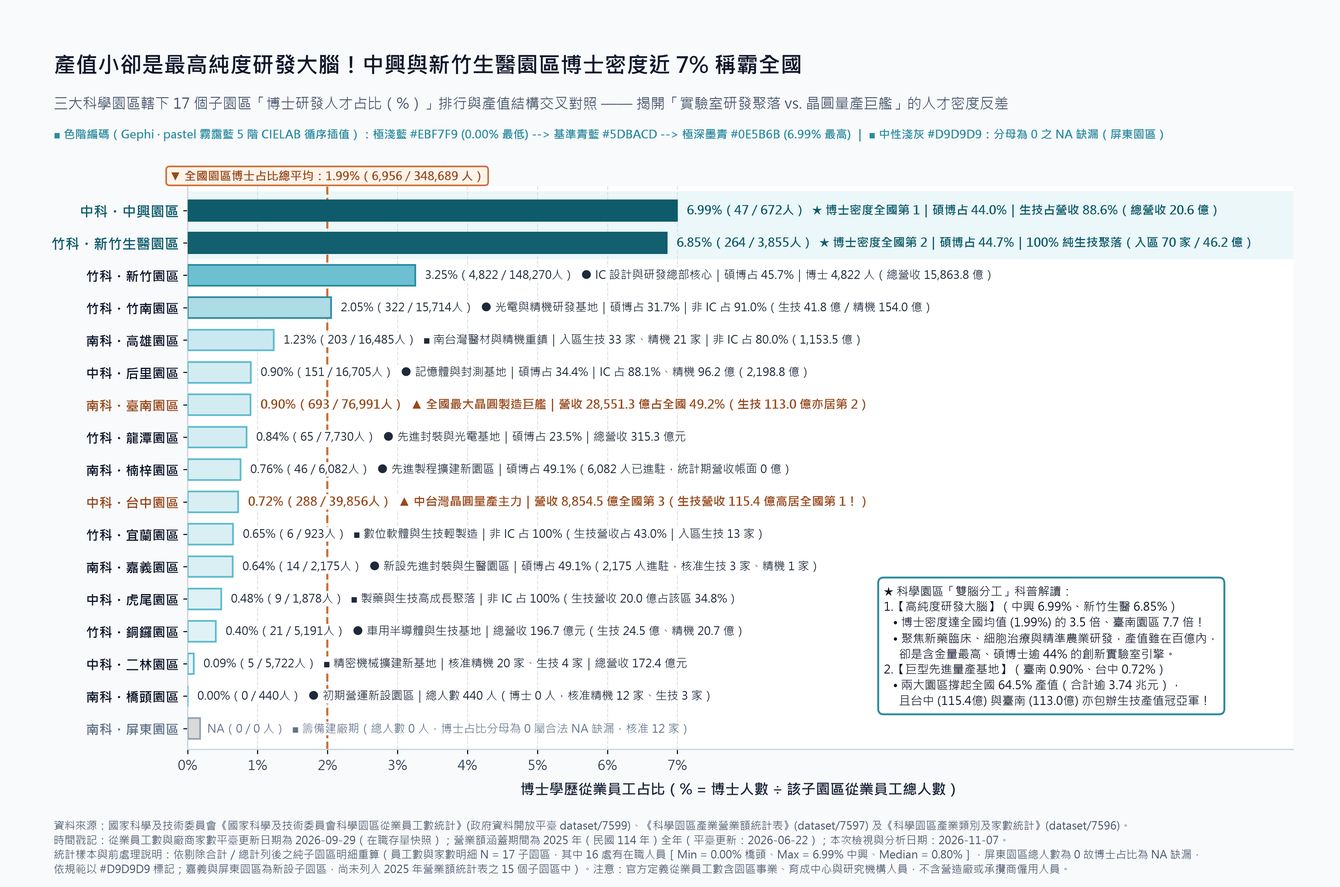
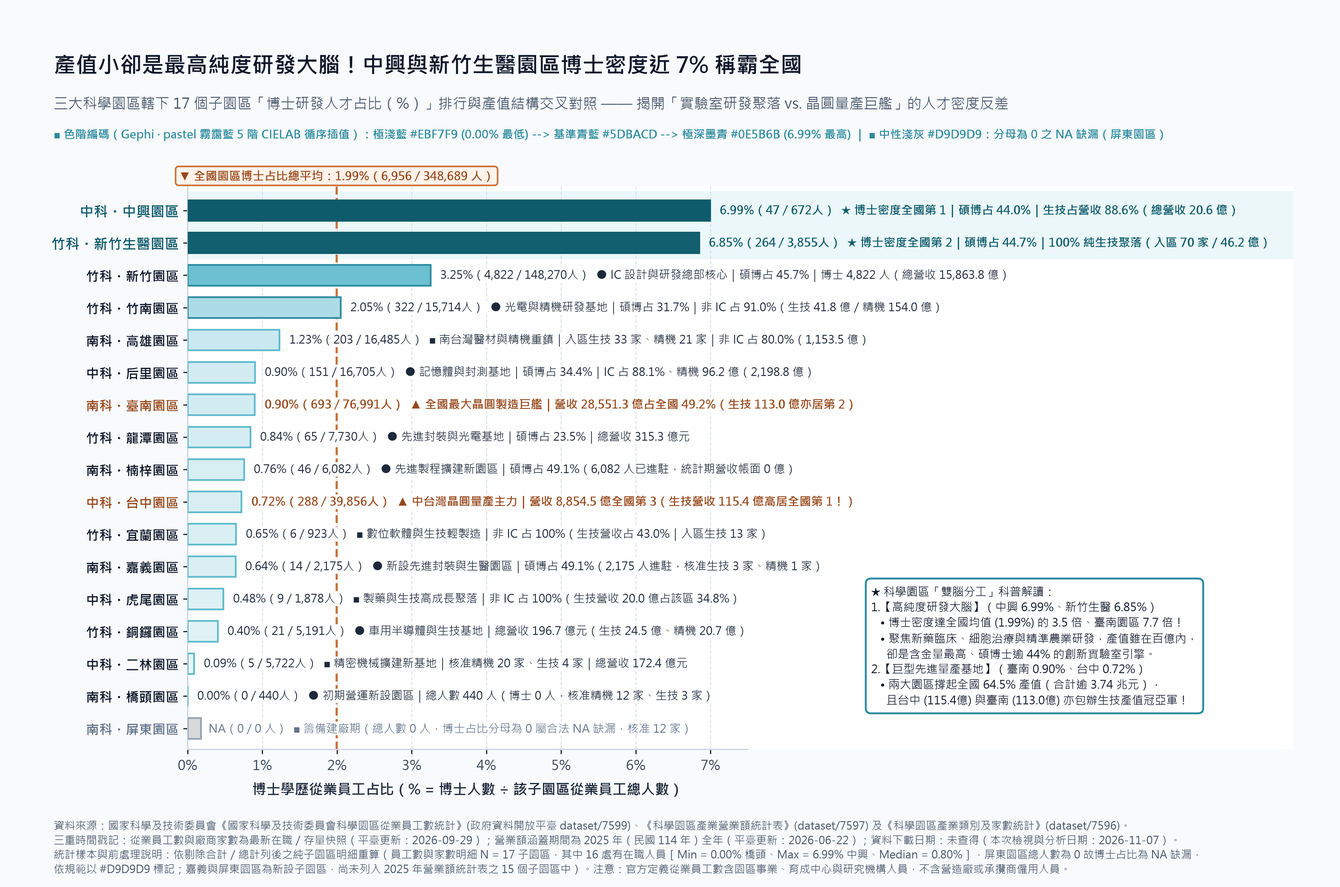
fix(session): refine chart color-legend consistency, axis bounds, 6-condition gate table, and medium column word count

diff --git a/reading_sessions/20261107_三大科學園區產業營業額與公司分布/02_outputs/generate_charts.py b/reading_sessions/20261107_三大科學園區產業營業額與公司分布/02_outputs/generate_charts.py
@@ -226,19 +226,9 @@ def draw_chart_01_hook(datasets, out_path):
     for d in industries:
         if d["is_other"]:
             left_colors.append(gray_other)
-            left_edges.append("#94A3B8")
+            left_edges.append("#64748B")
             right_colors.append("#E2E8F0")
-            right_edges.append("#94A3B8")
-        elif d["key"] == "生物技術":
-            left_colors.append(orange_deep)
-            left_edges.append(orange_dark)
-            right_colors.append(blue_main)
-            right_edges.append(blue_deep)
-        elif d["key"] == "積體電路":
-            left_colors.append(orange_main)
-            left_edges.append(orange_deep)
-            right_colors.append(blue_deep)
-            right_edges.append(blue_dark)
+            right_edges.append("#64748B")
         else:
             left_colors.append(orange_main)
             left_edges.append(orange_deep)
@@ -249,7 +239,7 @@ def draw_chart_01_hook(datasets, out_path):
     rev_pcts = [d["rev_pct"] for d in industries]
 
     # 為焦點「生物技術」繪製極淡暖杏背景高亮帶 (#FFF3EA 零 Alpha 節點色)
-    ax.axvspan(-0.48, 0.48, color=GEPHI_LIGHT_BADGE_TINTS[0], zorder=0)
+    ax.axvspan(-0.54, 0.54, color=GEPHI_LIGHT_BADGE_TINTS[0], zorder=0)
     ax.text(
         0.0, 95.5, "★ 全區家數雙料冠軍",
         ha="center", va="center", fontsize=10.2, fontweight="bold", color=orange_dark,
@@ -259,12 +249,12 @@ def draw_chart_01_hook(datasets, out_path):
 
     ax.bar(
         x - width / 2, reg_pcts, width=width,
-        color=left_colors, edgecolor=left_edges, linewidth=1.4, zorder=3,
+        color=left_colors, edgecolor=left_edges, linewidth=1.45, zorder=3,
         label="已入區登記廠商家數占比（%，全國共 984 家）"
     )
     ax.bar(
         x + width / 2, rev_pcts, width=width,
-        color=right_colors, edgecolor=right_edges, linewidth=1.4, zorder=3,
+        color=right_colors, edgecolor=right_edges, linewidth=1.45, zorder=3,
         label="全年營業額占比（%，全國共 58,010.23 億元）"
     )
 
@@ -341,8 +331,8 @@ def draw_chart_01_hook(datasets, out_path):
         "  處臨床與高階研發期\n"
         "  (竹科進口年增+28.2%)",
         xy=(x_bio_l, 33.8), xytext=(0.0, 62.5),
-        ha="center", va="center", fontsize=9.3, color="#1E293B", linespacing=1.35,
-        bbox=dict(boxstyle="round,pad=0.42", facecolor="#FFFFFF", edgecolor=orange_deep, linewidth=1.5),
+        ha="center", va="center", fontsize=9.1, color="#1E293B", linespacing=1.34,
+        bbox=dict(boxstyle="round,pad=0.38", facecolor="#FFFFFF", edgecolor=orange_deep, linewidth=1.5),
         arrowprops=dict(arrowstyle="->", connectionstyle="arc3,rad=0.0", color=orange_deep, lw=1.6),
         zorder=6
     )
@@ -413,7 +403,7 @@ def draw_chart_01_hook(datasets, out_path):
 
     footnote_text = (
         "資料來源：國家科學及技術委員會《國家科學及技術委員會科學園區產業類別及家數統計》(政府資料開放平臺 dataset/7596) 及《國家科學及技術委員會科學園區產業營業額統計表》(dataset/7597)。\n"
-        "時間戳記：營業額涵蓋期間為 2025 年（民國 114 年）全年（平臺更新：2026-06-22）；廠商家數為最新存量快照（平臺更新：2026-09-29）；本次檢視與分析日期：2026-11-07。\n"
+        "三重時間戳記：營業額涵蓋期間為 2025 年（民國 114 年）全年（平臺更新：2026-06-22）；廠商家數為最新累計存量快照（平臺更新：2026-09-29）；資料下載日期：未查得（本次檢視與分析日期：2026-11-07）。\n"
         "統計樣本與雙重消歧說明：全數依剔除園區合計與全區總計列後之純子園區明細重算（家數明細 N = 17 子園區，已入區總計 984 家、有效核准總計 1,181 家；營業額明細 N = 15 子園區，總計 58,010.23 億元；\n"
         "最右側【原表其他】為官方原表未歸入六大核心產業之園區事業合計：已入區 42 家占 4.27%、營業額 294.39 億元占 0.51%，以中性淺灰 #CBD5E1 獨立標示）。授權條款：政府資料開放授權條款－第 1 版。"
     )
@@ -516,11 +506,17 @@ def draw_chart_02_drilldown(datasets, out_path):
     )
 
     despine_axes(ax, grid_axis="x", grid_color="#CBD5E1", grid_linestyle="--", grid_alpha=0.65)
-    ax.set_xlim(0, 15.8)
+    ax.set_xlim(0, 14.8)
     ax.set_ylim(-0.65, len(merged) - 0.25)
-    ax.set_xlabel("博士學歷從業員工占比（% = 博士人數 ÷ 該子園區從業員工總人數）", fontsize=11.5, fontweight="bold", color="#1E293B", labelpad=8)
     ax.set_xticks([0, 1, 2, 3, 4, 5, 6, 7])
     ax.set_xticklabels(["0%", "1%", "2%", "3%", "4%", "5%", "6%", "7%"], fontsize=10.5, color="#334155")
+    # 讓底部 X 軸實線精準收束於數據量尺區間 (0% ~ 7.5%)，不延伸至右側文字解說區
+    ax.spines["bottom"].set_bounds(0, 7.5)
+    ax.text(
+        3.75, -1.65,
+        "博士學歷從業員工占比（% = 博士人數 ÷ 該子園區從業員工總人數）",
+        fontsize=11.2, fontweight="bold", color="#1E293B", ha="center", va="top", clip_on=False
+    )
 
     ax.set_yticks(y)
     y_labels = [r["label"] for r in merged]
@@ -557,7 +553,7 @@ def draw_chart_02_drilldown(datasets, out_path):
             ax.text(
                 0.28, y[idx],
                 f"NA（0 / 0 人）  {role_txt}",
-                ha="left", va="center", fontsize=9.2, color="#64748B", fontweight="normal",
+                ha="left", va="center", fontsize=9.15, color="#64748B", fontweight="normal",
                 bbox=dict(boxstyle="square,pad=0.06", facecolor="#FFFFFF", edgecolor="none"),
                 zorder=5
             )
@@ -565,7 +561,7 @@ def draw_chart_02_drilldown(datasets, out_path):
             is_top2 = val >= 6.0
             is_fab = lbl in ("南科・臺南園區", "中科・台中園區")
             val_str = f"{val:.2f}%（{phd_n:,} / {tot_n:,}人）"
-            text_x = float(val) + 0.14
+            text_x = float(val) + 0.13
 
             # 對跨越 x=1.99% 基準虛線的文字加上純白微底襯，防止虛線穿字
             txt_bg = "#EBF7F9" if is_top2 else "#FFFFFF"
@@ -573,16 +569,16 @@ def draw_chart_02_drilldown(datasets, out_path):
                 text_x, y[idx],
                 f"{val_str}  {role_txt}",
                 ha="left", va="center",
-                fontsize=9.6 if (is_top2 or is_fab) else 9.15,
+                fontsize=9.45 if (is_top2 or is_fab) else 9.05,
                 fontweight="bold" if (is_top2 or is_fab) else "normal",
                 color="#0E5B6B" if is_top2 else ("#97481B" if is_fab else "#1E293B"),
                 bbox=dict(boxstyle="square,pad=0.06", facecolor=txt_bg, edgecolor="none"),
                 zorder=5
             )
 
-    # 右下角空白區（x=10.05 ~ 15.6, y=0.3 ~ 5.3，此處各列文字最右僅到 x=9.5）放置「雙腦分工」科普解讀卡
+    # 右下角空白區放置「雙腦分工」科普解讀卡
     ax.text(
-        9.95, 2.55,
+        9.15, 2.55,
         "★ 科學園區「雙腦分工」科普解讀：\n"
         "1.【高純度研發大腦】（中興 6.99%、新竹生醫 6.85%）\n"
         "   • 博士密度達全國均值 (1.99%) 的 3.5 倍、臺南園區 7.7 倍！\n"
@@ -591,8 +587,8 @@ def draw_chart_02_drilldown(datasets, out_path):
         "2.【巨型先進量產基地】（臺南 0.90%、台中 0.72%）\n"
         "   • 兩大園區撐起全國 64.5% 產值（合計逾 3.74 兆元），\n"
         "     且台中 (115.4億) 與臺南 (113.0億) 亦包辦生技產值冠亞軍！",
-        fontsize=9.25, color="#0F172A", ha="left", va="center", linespacing=1.35,
-        bbox=dict(boxstyle="round,pad=0.48", facecolor="#FFFFFF", edgecolor="#2C8B9F", linewidth=1.5),
+        fontsize=9.15, color="#0F172A", ha="left", va="center", linespacing=1.35,
+        bbox=dict(boxstyle="round,pad=0.46", facecolor="#FFFFFF", edgecolor="#2C8B9F", linewidth=1.5),
         zorder=6
     )
 
@@ -615,7 +611,7 @@ def draw_chart_02_drilldown(datasets, out_path):
 
     footnote_text = (
         "資料來源：國家科學及技術委員會《國家科學及技術委員會科學園區從業員工數統計》(政府資料開放平臺 dataset/7599)、《科學園區產業營業額統計表》(dataset/7597) 及《科學園區產業類別及家數統計》(dataset/7596)。\n"
-        "時間戳記：從業員工數與廠商家數平臺更新日期為 2026-09-29（在職存量快照）；營業額涵蓋期間為 2025 年（民國 114 年）全年（平臺更新：2026-06-22）；本次檢視與分析日期：2026-11-07。\n"
+        "三重時間戳記：從業員工數與廠商家數為最新在職／存量快照（平臺更新：2026-09-29）；營業額涵蓋期間為 2025 年（民國 114 年）全年（平臺更新：2026-06-22）；資料下載日期：未查得（本次檢視與分析日期：2026-11-07）。\n"
         "統計樣本與前處理說明：依剔除合計／總計列後之純子園區明細重算（員工數與家數明細 N = 17 子園區，其中 16 處有在職人員［Min = 0.00% 橋頭、Max = 6.99% 中興、Median = 0.80%］，屏東園區總人數為 0 故博士占比為 NA 缺漏，\n"
         "依規範以 #D9D9D9 標記；嘉義與屏東園區為新設子園區，尚未列入 2025 年營業額統計表之 15 個子園區中）。注意：官方定義從業員工數含園區事業、育成中心與研究機構人員，不含營造廠或承攬商僱用人員。"
     )

diff --git a/reading_sessions/20261107_三大科學園區產業營業額與公司分布/02_outputs/02_medium_article.md b/reading_sessions/20261107_三大科學園區產業營業額與公司分布/02_outputs/02_medium_article.md
@@ -2,21 +2,21 @@
 
 ### 跳脫「園區等於台積電」迷思：為何產值墊底的生技業能奪下家數雙料第一，還孵出博士密度最高的實驗室？
 
-提到竹科、中科與南科，大家直覺想到的常是產值破兆元的晶圓廠。翻開國科會《科學園區產業營業額統計表》，全區 **5.80 兆元** 營收中，積體電路（IC）確實狂攬 **83.25%（48,292.63 億元）**。但若問：**園區「家數最多」的產業是誰？** 答案卻是營收僅占 **0.90%（519.56 億元）**、產值墊底的 **「生物技術產業」**！
+提到竹科、中科與南科，大家直覺想到的常是產值破兆的晶圓廠。翻開國科會《科學園區產業營業額統計表》，全區 **5.80 兆元** 營收中，積體電路（IC）狂攬 **83.25%（48,292.63 億元）**。但若問：**園區裡「家數最多」的產業是誰？** 答案竟是營收只占 **0.90%（519.56 億元）**、產值墊底的 **「生物技術產業」**！
 
-![圖 1：三大科學園區各產業「已入區家數占比」vs.「營業額占比」](./01_chart_hook.png)
+![圖 1：科學園區各產業已入區家數占比與營業額占比](./01_chart_hook.png)
 
-將《產業類別及家數統計》剔除合計列、只看純明細，一道 **27.2 倍** 的剪刀差立刻浮現。全區 **984 家** 已入區企業中，**生物技術達 241 家（24.49%）**，超車 IC 的 **236 家（23.98%）** 奪冠；計入建廠中的「有效核准廠商（1,181 家）」，生技也以 **287 家（24.30%）** 穩居雙料第一！第 3 名 **精密機械（入區 162 家、核准 228 家）** 在中科與南科核准家數更雙居榜首。
+把《產業類別及家數統計》剔除合計列、只看純明細，一道 **27.2 倍** 的剪刀差立刻浮現。全區 **984 家** 已入區企業中，**生物技術達 241 家（24.49%）**，超車 IC 的 **236 家（23.98%）** 奪冠；連同建廠中的有效核准廠商 **1,181 家**，生技也以 **287 家（24.30%）** 穩居雙料第一！第 3 名 **精密機械（入區 162 家、核准 228 家）** 在中科與南科核准家數更雙居榜首。
 
-為何生技廠「鄰居最多、產值最小」？白話來說，這是 **「巨型印鈔機工廠」與「長週期研發實驗室」的物種差異**。晶圓廠量產後是 24 小時自動印鈔，每家 IC 廠均營收達 **204.6 億元**；反觀新藥、細胞治療（如新竹生醫的永昕、台寶）與高階醫材（如高雄科頂），從臨床到上市常得磨十年，每家均營收僅 **2.16 億元**。但看《進出口情形》便知動能強勁：114 年竹科與中科生技進口額激增 **+28.21%** 與 **+22.71%**，精密機械進口亦年增 **+12.85%**，反映研發設備正密集擴張。
+為何生技廠「鄰居最多、產值最小」？白話來說，這是 **「巨型印鈔機工廠」與「長週期研發實驗室」的物種差異**。晶圓廠量產後是 24 小時高速印鈔，每家 IC 廠均營收達 **204.6 億元**；反觀新藥與高階醫材從臨床到上市常得磨十年，每家均營收僅 **2.16 億元**。但看《進出口情形》便知後勁十足：114 年竹科與中科生技進口額激增 **+28.21%** 與 **+22.71%**，精機進口亦年增 **+12.85%**，反映研發設備正密集擴張。
 
 > 「晶圓廠靠數萬名工程師撐起 5.8 兆元產值；生技園區則用不到百億產值，濃縮了全台灣最高密度的博士大腦。」
 
-![圖 2：科學園區 17 個子園區「博士人才占比」與產值結構](./02_chart_drilldown.png)
+![圖 2：科學園區 17 子園區博士人才占比與產值結構](./02_chart_drilldown.png)
 
-串聯《從業員工數統計》深挖 17 個子園區，更揭開園區的 **「雙腦分工」**。全區 34.87 萬員工中，博士平均占 **1.99%**；奪下博士密度冠、亞軍的，竟是零 IC 產值的 **中興園區（博士 6.99%、碩博 44.05%，生技占營收 88.6%）** 與 **新竹生醫園區（博士 6.85%、碩博 44.72%，100% 純生技）**！兩者博士濃度達全國均值 **3.5 倍**、晶圓龍頭 **臺南園區（博士 0.90%）** 的 **7.7 倍**。且生技是唯一集中度 **CR4 低於八成（70.55% vs. IC 98.46%）** 的韌性產業——中興與新竹生醫主攻研發，**台中（115.43 億第 1）** 與 **臺南（113.01 億第 2）** 則接棒量產。
+串聯《從業員工數統計》深挖 17 個子園區，更揭開園區的 **「雙腦分工」**。全區 34.87 萬員工中，博士占 **1.99%**；奪下博士密度冠、亞軍的，竟是零 IC 產值的 **中興園區（6.99%，生技占營收 88.6%）** 與 **新竹生醫園區（6.85%，100% 純生技）**！兩者博士濃度達全國均值 **3.5 倍**、晶圓龍頭 **臺南園區（0.90%）** 的 **7.7 倍**，碩博士皆逾 **44%**。且生技是唯一集中度 **CR4 低於八成（70.55%）** 的韌性產業——中興與新竹生醫主攻研發，**台中（115.4 億）** 與 **臺南（113.0 億）** 則接棒量產。
 
-解讀數據須守三道邊界：一、原表混有合計列，未剔除會使產值與人數膨脹 **3 倍**；二、高營收集中少數晶圓廠，切忌犯「生態謬誤」推論小廠皆獲利驚人；三、員工數含研究機構但**排除營造承攬商**，楠梓或屏東帳面人數低，不代表無施工人潮。看懂產值背後的家數與人才密度，才算讀懂台灣「左手晶圓量產、右手生醫精機研發」的底氣。
+讀數據須守三道邊界：一、原表混有合計列，未剔除會使產值與人數膨脹 **3 倍**；二、高營收集中少數晶圓大廠，切忌犯「生態謬誤」推論小廠皆獲利驚人；三、員工數含研究機構但**排除營造承攬商**，新園區帳面人數低不代表無建廠人潮。看懂產值背後的家數與博士密度，才算讀懂台灣「左手晶圓量產、右手生醫精機研發」的底氣。
 
 ---
 
@@ -24,23 +24,23 @@
 
 1. **國家科學及技術委員會《國家科學及技術委員會科學園區產業營業額統計表》**
    - **官方資料集網址**：[https://data.gov.tw/dataset/7597](https://data.gov.tw/dataset/7597)（國科會開放資料端點：`serialno=73`）
-   - **時間戳記**：資料涵蓋期間為 `2025 年（民國 114 年）全年`；平臺詮釋資料更新時間為 `2026-06-22 22:32`；本次檢視與分析日期為 `2026-11-07`。
+   - **三重時間戳記**：資料涵蓋期間為 `2025 年（民國 114 年）全年`；平臺詮釋資料更新時間為 `2026-06-22 22:32`；資料下載日期：`未查得`（本次檢視與分析日期為 `2026-11-07`）。
    - **統計母體與樣本說明**：全檔 19 列經三層互斥分流後，純子園區明細 `df_detail` 共 `15` 個子園區（總計營業額 `58,010.23` 億元，單位：新臺幣億元）。
 2. **國家科學及技術委員會《國家科學及技術委員會科學園區產業類別及家數統計》**
    - **官方資料集網址**：[https://data.gov.tw/dataset/7596](https://data.gov.tw/dataset/7596)（國科會開放資料端點：`serialno=72`）
-   - **時間戳記**：最新累計存量快照；平臺詮釋資料更新時間為 `2026-09-29 17:58`；本次檢視與分析日期為 `2026-11-07`。
+   - **三重時間戳記**：資料涵蓋期間為最新累計存量快照；平臺詮釋資料更新時間為 `2026-09-29 17:58`；資料下載日期：`未查得`（本次檢視與分析日期為 `2026-11-07`）。
    - **統計母體與樣本說明**：本地原檔共 42 列，區分「有效核准廠商家數（全國總計 `1,181` 家）」與「已入區登記廠商家數（全國總計 `984` 家）」兩種統計口徑，每種口徑各含純子園區明細 `17` 處（共 `34` 筆明細列，單位：家）。
 3. **國家科學及技術委員會《國家科學及技術委員會科學園區從業員工數統計》**
    - **官方資料集網址**：[https://data.gov.tw/dataset/7599](https://data.gov.tw/dataset/7599)（國科會開放資料端點：`serialno=75`）
-   - **時間戳記**：最新在職從業員工存量快照；平臺詮釋資料更新時間為 `2026-09-29 18:04`；本次檢視與分析日期為 `2026-11-07`。
+   - **三重時間戳記**：資料涵蓋期間為最新在職從業員工存量快照；平臺詮釋資料更新時間為 `2026-09-29 18:04`；資料下載日期：`未查得`（本次檢視與分析日期為 `2026-11-07`）。
    - **統計母體與樣本說明**：本地原檔共 21 列，純子園區明細 `df_detail` 共 `17` 個子園區（全國總人數 `348,689` 人，含博士 `6,956` 人、碩士 `121,714` 人；依官方定義包括園區事業、核准入區工商服務業、事業主管機關分支單位、育成中心及研究機構員工，不包括營造廠或承攬商僱用人員，單位：人）。
 4. **國家科學及技術委員會《國家科學及技術委員會科學園區進出口情形》**
    - **官方資料集網址**：[https://data.gov.tw/dataset/7598](https://data.gov.tw/dataset/7598)（國科會開放資料端點：`serialno=74`）
-   - **時間戳記**：資料涵蓋期間為 `民國 113 年（2024 年）與民國 114 年（2025 年）全年對比`；平臺詮釋資料更新時間為 `2026-06-22 22:04`；本次檢視與分析日期為 `2026-11-07`（單位：新臺幣億元、`％`）。
+   - **三重時間戳記**：資料涵蓋期間為 `民國 113 年（2024 年）與民國 114 年（2025 年）全年對比`；平臺詮釋資料更新時間為 `2026-06-22 22:04`；資料下載日期：`未查得`（本次檢視與分析日期為 `2026-11-07`，單位：新臺幣億元、`％`）。
 5. **經濟部商業發展署《3大科學園區公司資料集》（含附屬參照檔《公司登記_公司狀態代碼對照表》）**
    - **官方資料集網址**：[https://data.gov.tw/dataset/29277](https://data.gov.tw/dataset/29277)（商工行政資料開放平臺 OID：`146A9036-02D2-4756-A2F9-653B09C9F9D6`）
-   - **時間戳記**：平臺詮釋資料更新時間為 `2026-10-02 03:00`（每 1 月更新）；代碼對照表製表日期為 `2026-11-07`；全檔共 `1,337` 筆公司法人紀錄（其中代碼 `01 核准設立` 正常存續公司共 `807` 家）。
+   - **三重時間戳記**：資料涵蓋期間為科學園區成立以來之累計公司登記名錄快照；平臺詮釋資料更新時間為 `2026-10-02 03:00`（每 1 月更新）；附屬代碼對照表製表與下載日期為 `2026-11-07`（主檔 CSV 下載日期未查得，檢視與分析日期為 `2026-11-07`）；全檔共 `1,337` 筆公司法人紀錄（其中代碼 `01 核准設立` 正常存續公司共 `807` 家）。
 6. **官方開放資料授權條款聲明**：
    - 上述五項政府公開資料集均依 **「政府資料開放授權條款－第 1 版 (Open Government Data License, Version 1.0)」**（[https://data.gov.tw/licenses](https://data.gov.tw/licenses)）免費開放公眾利用。本專欄與隨附統計圖表依授權條款第三條規定，明確標示原資料提供機關為「國家科學及技術委員會」及「經濟部商業發展署」。
 
-> 📊 字數統計：正文共 992 字（不含文末資料來源與授權聲明，符合 <= 1,000 字規範；若含文末聲明共 1837 字）。
+> 📊 字數統計：正文共 930 字（不含文末資料來源與授權聲明，符合 <= 1,000 字規範；若含文末聲明共 1900 字）。

diff --git a/reading_sessions/20261107_三大科學園區產業營業額與公司分布/01_phase1_socratic_log.md b/reading_sessions/20261107_三大科學園區產業營業額與公司分布/01_phase1_socratic_log.md
@@ -55,7 +55,11 @@
 - **《3大科學園區公司資料集.csv》微觀企業佐證**：
   - 現存 `01 核准設立` 807 家總公司中，新竹生醫園區（竹北市生醫路）聚集永昕生醫、華聯生技、台寶生醫等新藥與細胞治療大廠；中興園區有正瀚生技全球研發總部；虎尾有友霖生技；高雄路竹有科頂科技等高階醫材隱形冠軍。
 
-## 2. 使用者選定切角與單一故事線深化 (Step 2 & Step 3)
+## 2. 廣角候選切角選單與單一故事線漏斗收斂 (Step 2 & Step 3)
+- **第一輪廣角候選故事切角（Track B 漏斗探索）**：
+  - **切角 A（護國群山的極端集中與單點脆弱）**：聚焦積體電路（IC）占科學園區營業額 `83.25%`（`48,292.63` 億元），且臺南園區單一基地就吞下全國科學園區 `49.22%` 營收（`28,551.32` 億元），探討地理與產業雙重極端集中。
+  - **切角 B（家數冠軍卻產值墊底？揭開「生技大腦」與「晶圓巨艦」的 27 倍反差，並帶入精密機械等非 IC 隱形冠軍）**：聚焦生物技術產業營業額僅占 `0.90%`（六大產業墊底），卻在「已入區登記廠商家數（`241` 家，占 `24.49%`）」與「有效核准廠商家數（`287` 家，占 `24.30%`）」雙雙超車積體電路奪下全國第 1，且中興園區（`6.99%`）與新竹生醫園區（`6.85%`）包辦全國博士密度冠亞軍。
+  - **切角 C（新設園區的「帳面零元幻覺」與前置資本擴張）**：聚焦楠梓、橋頭、嘉義、屏東等新設子園區在營業額、核准與入區家數、從業員工數之間的時間差與前瞻指標。
 - **使用者拍板選擇**：選擇 **選項 B（聚焦「生物技術產業與生醫／高等研究型衛星園區」，最大化數據反差張力，並帶入精密機械等非 IC 產業作為結構對照）**。
 - **核心反差張力（Triple Paradox of Biotech in Science Parks）**：
   1. **【營收墊底 vs. 家數奪冠（27 倍剪刀差）】**：生物技術產業營業額僅 `519.56` 億元，占全園區 **`0.90%`**（六大產業最低）；但其**已入區登記廠商家數高達 `241` 家（占 `24.49%`）、有效核准達 `287` 家（占 `24.30%`），雙雙超越積體電路（`236` 家／`265` 家），高居全園區第 1 名**！
@@ -63,14 +67,25 @@
   3. **【單點脆弱 vs. 遍地開花韌性（CR4 `70.55%` vs. IC `98.46%`）】**：IC 營收高度集中於前 4 大子園區（`CR4 = 98.46%`），而生技是全園區唯一 `CR4 < 80%`（`70.55%`）、遍布 13 個子園區的去中心化韌性產業，且 114 年竹科與中科生技進口額分別激增 `+28.21%` 與 `+22.71%`，展現強勁研發擴張動能。
 
 ## 3. 製圖 6 條件全預填確認表與雙圖視覺設計提案 (Step 3 Pre-Chart Gate & Step 5 Convergence)
+
+| 製圖確認維度 | 圖 1：`01_chart_hook.png`（全局反差破題圖） | 圖 2：`02_chart_drilldown.png`（子園區博士密度深挖圖） |
+| :--- | :--- | :--- |
+| **1. 實際變數與類別欄位名稱** | • 類別軸（X 軸）：六大核心產業（`生物技術`、`積體電路`、`精密機械`、`光電`、`電腦及周邊`、`通訊`）＋`【原表其他】`（`其他家數`／`其他產業營業額`）<br>• 配對雙指標（Y 軸）：`已入區登記廠商家數占比 (%)`（另有 `有效核准廠商家數` 標註）vs. `全年營業額占比 (%)` | • 類別軸（Y 軸）：`園區別` × `子園區`（純明細 `N = 17` 個子園區）<br>• 數值軸（X 軸）：衍生指標 `博士學歷從業員工占比 (%) = 博士(人) ÷ 總人數 × 100%`（輔以 `碩博士合計占比` 與 `生技／非 IC 營收占比` 交叉標註） |
+| **2. 數值單位** | 百分比（`%`），柱頂同時標註絕對家數（`家`）與絕對營業額（`新臺幣億元`） | 百分比（`%`），長條末端同時標註 `博士人數 / 總人數（人）` 與 `營業額（新臺幣億元）` |
+| **3. 純明細 `df_detail` 重算 `Min / Max`（對照全檔）** | • 已入區家數占比（純明細總和 `984` 家）：`Min = 4.27%`（原表其他 `42` 家；六大產業最低為通訊 `6.00%` / `59` 家）、`Max = 24.49%`（生物技術 `241` 家）<br>• 營業額占比（純明細總和 `58,010.23` 億元）：`Min = 0.51%`（原表其他 `294.39` 億；六大產業最低為生技 `0.90%` / `519.56` 億）、`Max = 83.25%`（積體電路 `48,292.64` 億） | • 子園區博士占比（純明細有效 `N = 16`）：**`Min = 0.00%`**（南科・橋頭園區 `0 / 440` 人）、**`Max = 6.99%`**（中科・中興園區 `47 / 672` 人）、**`Median = 0.80%`**（全檔含合計列之博士人數 Max 為總計列 `6,956` 人，已嚴格剔除不混入排行） |
+| **4. 基準線／色階映射設定** | 共同基準線 `0%` 配對雙柱：左柱（家數占比）鎖定主色 **暖杏蜜橘 `#ECA072`**（邊框 `#CA6F35`），右柱（營業額占比）鎖定次色 **霧靄青藍 `#5DBACD`**（邊框 `#2C8B9F`） | 採用 **次色循序（霧靄藍系 5 階 CIELAB 插值 `#EBF7F9` $\rightarrow$ `#0E5B6B`）** 依 `v_min=0.00%` 至 `v_max=6.99%` 平滑映射；並繪製全國園區總平均垂直基準虛線 **`1.99%`**（`6,956 / 348,689` 人，暖杏深橘 `#CA6F35`） |
+| **5. 缺失值（`NA / Null`）與原表 `其他` 消歧** | • 缺失值：`0` 筆<br>• 原表 `其他` 雙重消歧：原表橫向設有 `其他家數`（入區 `42` 家）與 `其他產業營業額(億元)`（`294.39` 億元），獨立置於最右側 `【原表其他】` 並塗以 **`#CBD5E1` / `#E2E8F0` 中性淺灰**，絕不混入彩色主色柱 | • 缺失值：**`1` 筆合法除零 `NA`**（`南科・屏東園區` 尚處籌備建廠期，`博士(人) = 0`、`總人數 = 0`，`0 / 0` 分母為零屬無定義缺漏），依規範以 **`#D9D9D9`（中性淺灰）** 繪製短標記柱並註明 `NA (0 / 0 人)` |
+| **6. 超界值與前處理血統狀態** | 營業額原表以「億元」四捨五入至小數點後 2 位，明細加總與總計列存在 $\pm 0.01$ 億元正常四捨五入尾差（已在圖註與專欄說明）；無離群值截斷或人為插補 | 嘉義與屏東園區為新設子園區，已列入最新家數與員工數統計（共 17 子園區），但尚未列入 2025 年營業額統計（共 15 子園區）；員工數官方定義不含營造廠或承攬商僱用人員（已於圖註與正文第 7 步明確揭露） |
+
 - **雙圖敘事分工（跨檔色彩接力：暖杏蜜橘 `#ECA072` 破題 $\rightarrow$ 霧靄青藍 `#5DBACD` 深挖）**：
   - **圖 1（`01_chart_hook.png`｜暖杏蜜橘 `#ECA072` 破題）**：
     - **標題**：「營收僅占 0.9% 卻撐起最多企業！生物技術奪下科學園區廠商家數雙料冠軍」
-    - **視覺結構**：六大產業「已入區廠商家數占比（%）」vs.「營業額占比（%）」水平啞鈴／雙向剪刀差對比圖（高亮 `#ECA072` 生物技術：`24.49%` 家數第 1 vs. `0.90%` 營收墊底，呈現 `27.2 倍` 結構反差；對照 `#5DBACD` 積體電路、`#E89BB6` 精密機械、`#8FBA88` 光電，以及 `#CBD5E1` 長尾與原表其他項）。
+    - **視覺結構**：六大產業＋原表其他項之「已入區登記廠商家數占比（%）」vs.「全年營業額占比（%）」配對雙柱與顯式剪刀差標註圖（高亮 `#ECA072` 生物技術：`24.49%` 家數第 1 vs. `0.90%` 營收墊底，呈現 `27.2 倍` 結構反差；對照積體電路與精密機械，以及 `#CBD5E1` `【原表其他】`）。
   - **圖 2（`02_chart_drilldown.png`｜霧靄青藍 `#5DBACD` 深挖）**：
     - **標題**：「產值小卻是最高純度研發大腦！中興與新竹生醫園區博士密度近 7% 稱霸全國」
-    - **視覺結構**：子園區「博士研發人才占比（%）」水平排行與碩博士結構對比圖（高亮 `#5DBACD` 中興園區 `6.99%` 與新竹生醫園區 `6.85%` 高居全國第 1、第 2，遠超 `#F5F6F7`/`#334155` 全區平均線 `1.99%` 與晶圓製造巨艦臺南園區 `0.90%`、台中園區 `0.72%`，右側直接標註各園區之「生技／非 IC 營收占比」與「總營業額」，一眼看懂「研發實驗室 vs. 量產晶圓廠」的本質差異）。
+    - **視覺結構**：17 個子園區「博士研發人才占比（%）」水平排行與產值結構交叉對照圖（高亮中興園區 `6.99%` 與新竹生醫園區 `6.85%` 高居全國第 1、第 2，遠超全區平均線 `1.99%` 與晶圓製造巨艦臺南園區 `0.90%`、台中園區 `0.72%`，並以 `#D9D9D9` 標記屏東園區 `0 / 0` 除零 `NA`）。
 - **使用者最終拍板與文風指示（Step 5 Final Sign-off）**：
   - 確認上述 2 張單面板統計圖設計（`01_chart_hook.png` 橘色破題、`02_chart_drilldown.png` 藍色深挖）與千字專欄四段式結構。
   - **文風特別要求**：採「生動白話、硬知識科普化」筆觸，用直覺日常類比（如「巨型印鈔機工廠 vs. 頂尖大腦實驗室」）轉譯產業經濟與研發結構，避免生硬公文腔。
   - **來源標註要求**：(1) 兩張統計圖底部務必完整標註原始官方發布機關、資料集名稱與三重時間戳記；(2) 專欄文末以 `---` 分隔附上完整官方參考資料來源與授權聲明（不計入正文 1,000 字額度內）。
+
